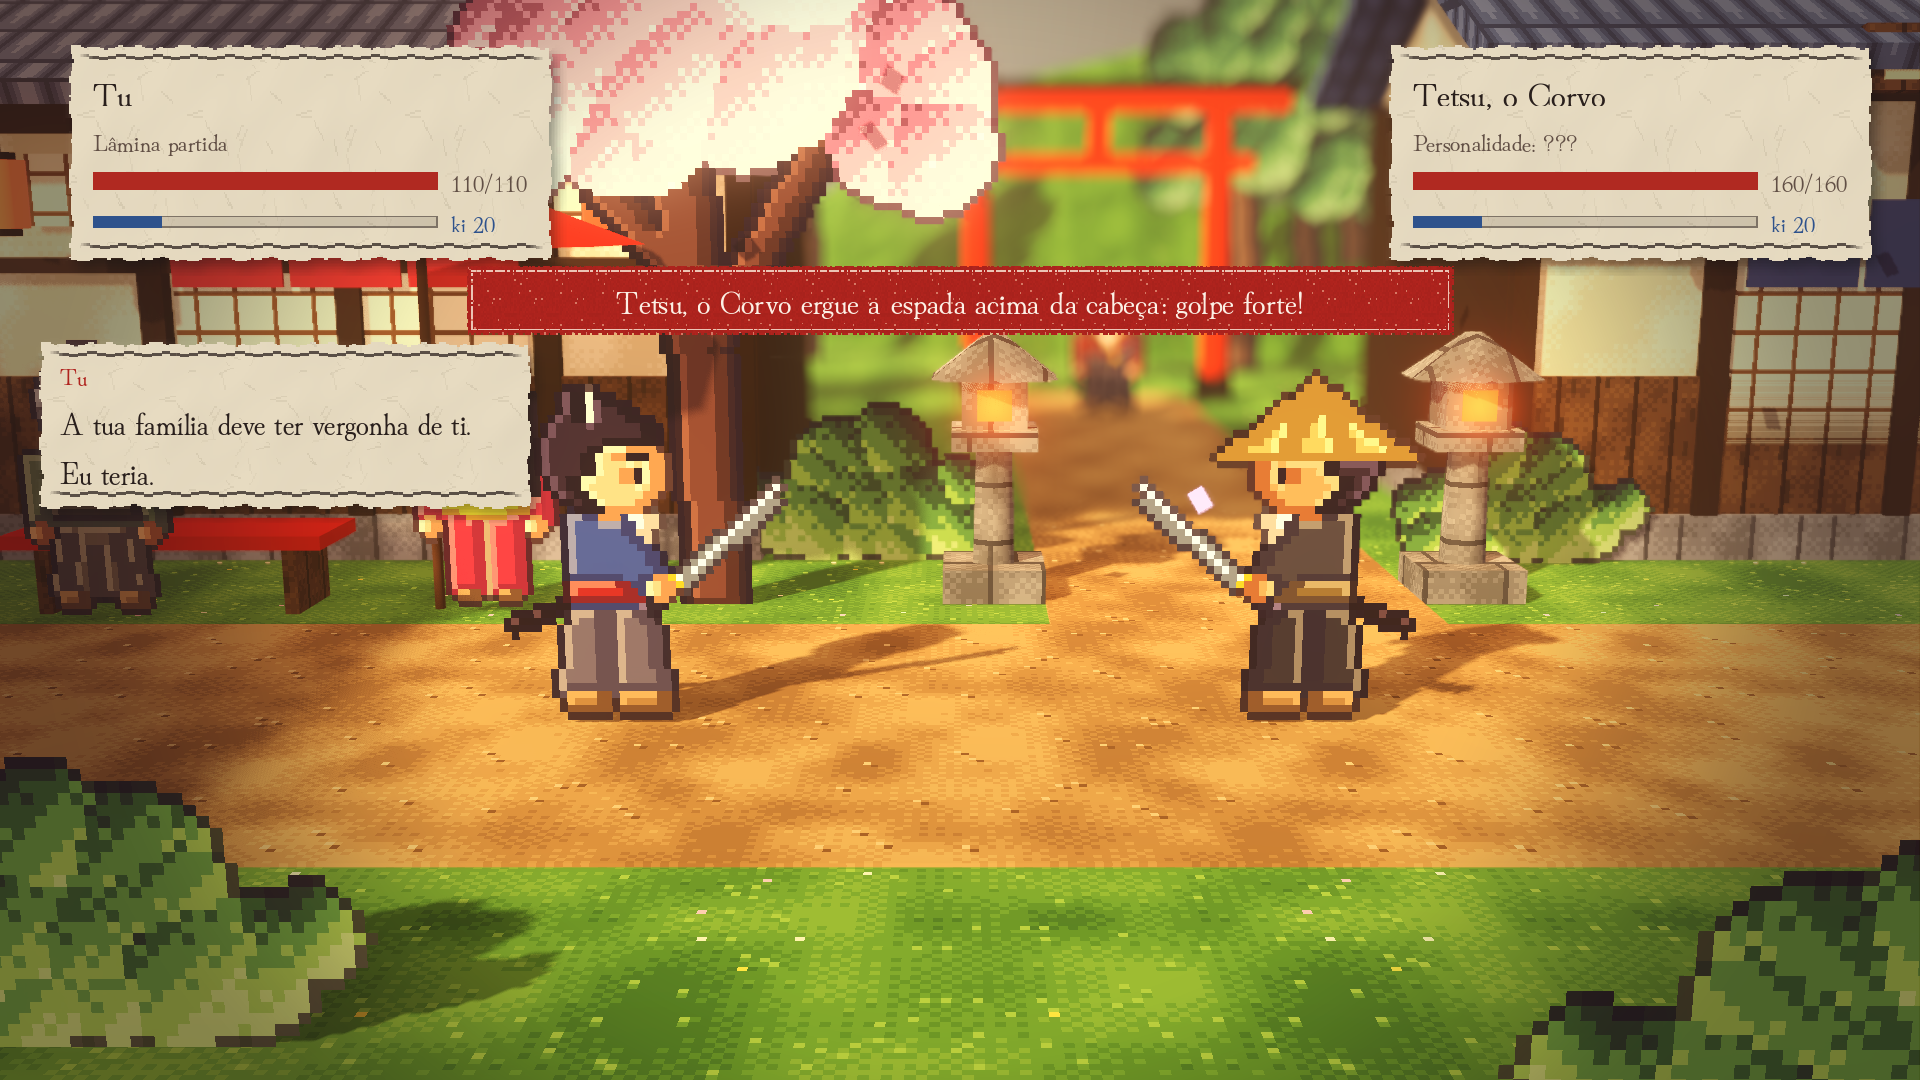
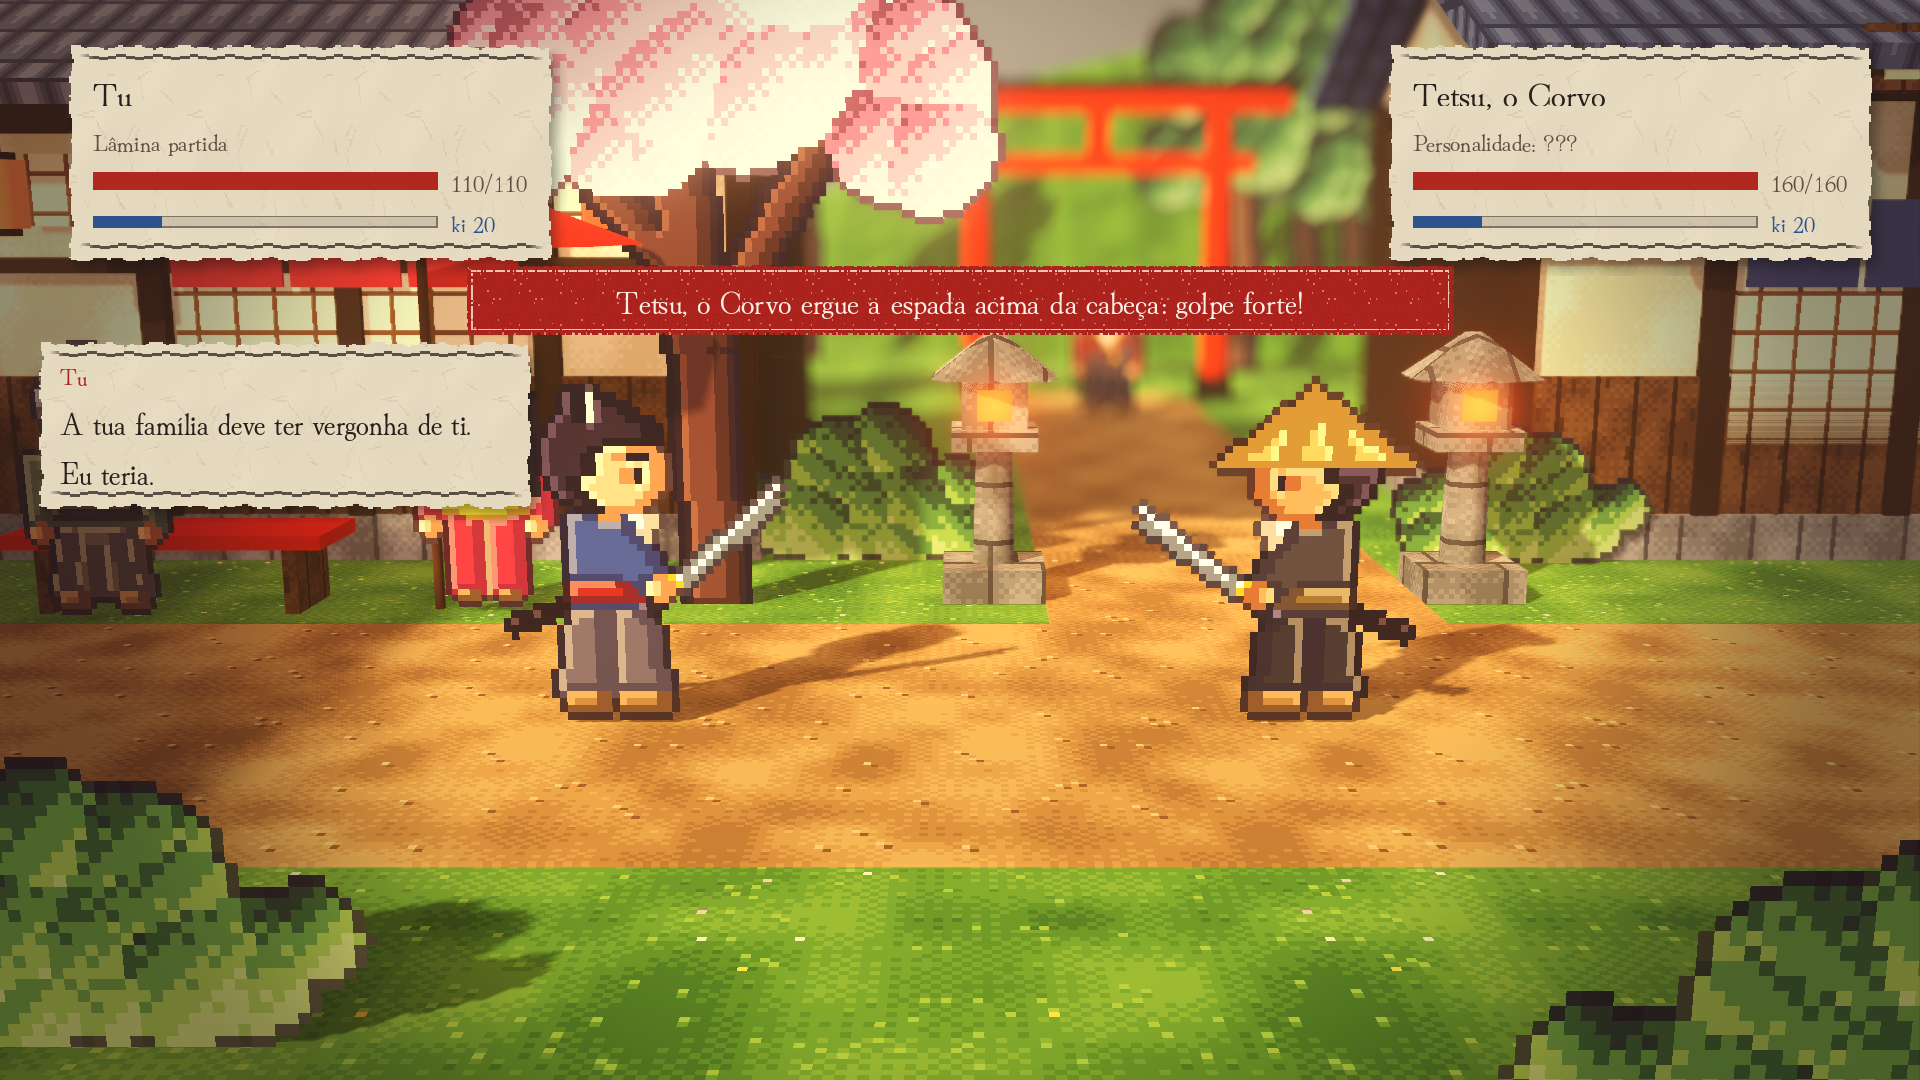
Animação de duelo: 7 poses novas (preparar, golpe a meio, recolher, recuo e estocada, respirar, cair); golpe rápido é uma estocada, golpe forte sobe por jodan com passo atrás antes de avançar; respiração em repouso; KO em dois tempos; pétalas escondidas durante o duelo

diff --git a/tools/gen_art.py b/tools/gen_art.py
@@ -422,7 +422,10 @@ def _build_side(s: Sprite, a, step, y0, arm=True, waist_hilt=True, kneel=False):
                 s.line("weave", [(16, 2 + y0), (6 + i * 7, 10 + y0)], flat=True)
 
 
-COMBAT_POSES = ("ready", "raise", "slash", "guard", "hurt", "down")
+# order matters: the game indexes frames by this list (Actor.POSES); new poses
+# are appended so old frame numbers never move
+COMBAT_POSES = ("ready", "raise", "slash", "guard", "hurt", "down",
+                "windup", "swing", "cock", "thrust", "recover", "breathe", "fall")
 COMBAT_W = 64
 
 
@@ -472,27 +475,48 @@ def build_combat(arch: str, pose: str) -> Image.Image:
         s.region("hat", a["hat"])
     if a.get("headband"):
         s.region("band", a["headband"])
-    y0 = 7 if pose == "down" else 0
-    _build_side(s, a, 0, y0, arm=False, waist_hilt=False, kneel=(pose == "down"))
+    # body: kneeling drops the whole figure, lunges widen the stance
+    y0 = {"down": 7, "fall": 4, "breathe": 1}.get(pose, 0)
+    step = {"slash": 2, "swing": 2, "thrust": 2, "recover": 1, "cock": -1}.get(pose, 0)
+    _build_side(s, a, step, y0, arm=False, waist_hilt=False, kneel=(pose in ("down", "fall")))
     sh = (16, 21)
     if pose == "ready":       # chudan: blade forward and up, aimed at the throat
         _arm_and_blade(s, sh, (23, 29), (38, 16))
+    elif pose == "breathe":   # idle in-between: shoulders drop, tip sinks a little
+        _arm_and_blade(s, sh, (23, 29), (38, 18), y0=y0)
+    elif pose == "windup":    # rising from chudan towards jodan
+        _arm_and_blade(s, sh, (22, 16), (24, 0))
     elif pose == "raise":     # jodan: hands over the head, blade back
         _arm_and_blade(s, sh, (19, 7), (2, 10))
+    elif pose == "swing":     # mid-cut: the blade comes over, hands still high
+        _arm_and_blade(s, sh, (26, 15), (44, 4))
     elif pose == "slash":     # follow-through: arms extended, blade level
         _arm_and_blade(s, sh, (28, 28), (47, 31))
+    elif pose == "recover":   # after the cut: blade low, coming back up
+        _arm_and_blade(s, sh, (25, 31), (41, 39))
+    elif pose == "cock":      # thrust wind-up: hands pulled back to the hip, tip level
+        _arm_and_blade(s, sh, (17, 28), (33, 24))
+    elif pose == "thrust":    # tsuki: arms and blade straight out
+        _arm_and_blade(s, sh, (31, 24), (54, 22))
     elif pose == "guard":     # vertical guard in front of the body
         _arm_and_blade(s, sh, (24, 27), (27, 6))
     elif pose == "hurt":      # recoil: blade drops
         _arm_and_blade(s, sh, (22, 31), (34, 41))
+    elif pose == "fall":      # knees buckling, blade swinging down
+        _arm_and_blade(s, sh, (22, 31), (36, 41), y0=y0)
     elif pose == "down":      # kneeling, blade planted
         _arm_and_blade(s, sh, (23, 30), (31, 40), y0=y0)
     img = s.render()
-    if pose == "hurt":        # lean the upper body back
+    # lean the upper body: back when hit, forward into the cut
+    lean = {"hurt": -3, "fall": -2, "swing": 2, "slash": 2, "thrust": 3, "cock": -1}.get(pose, 0)
+    if lean:
         arr = np.array(img)
         top = arr[:30].copy()
         arr[:30] = 0
-        arr[:30, :-3] = top[:, 3:]
+        if lean < 0:
+            arr[:30, :lean] = top[:, -lean:]
+        else:
+            arr[:30, lean:] = top[:, :-lean]
         img = Image.fromarray(arr, "RGBA")
     return img
 
